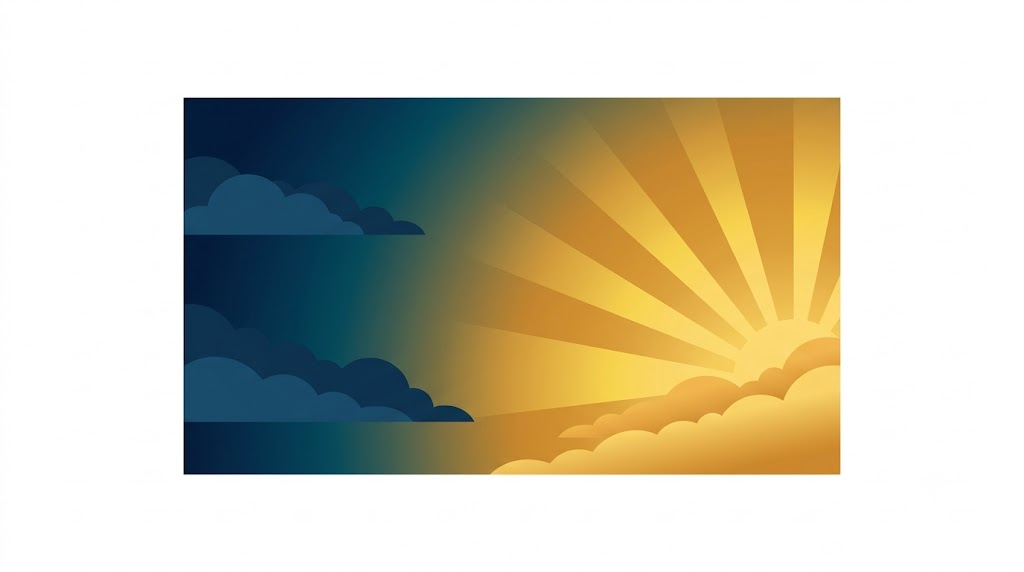
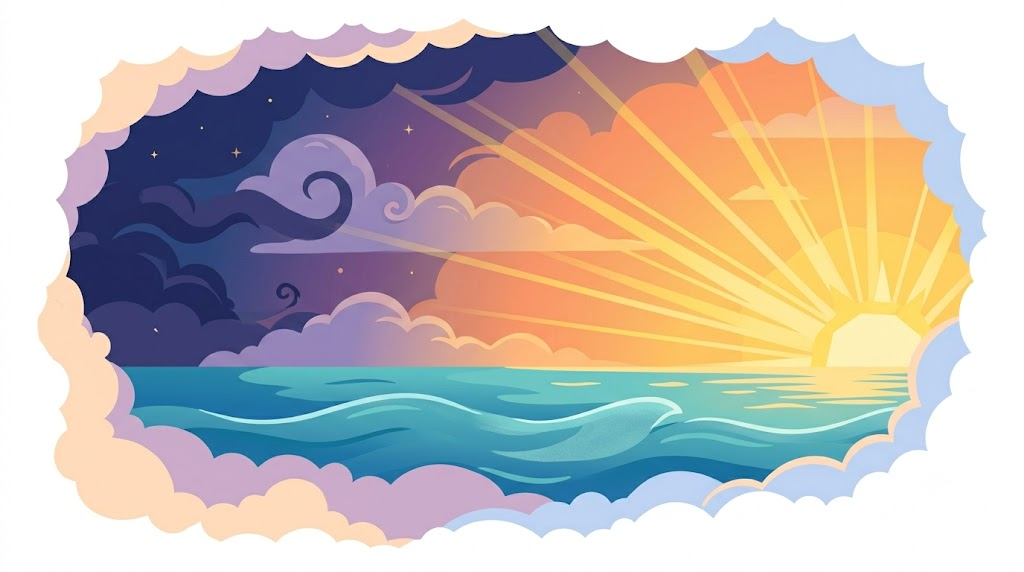
change to use query string param 'grade'

diff --git a/index.html b/index.html
@@ -297,13 +297,9 @@
 // URL ROUTING — parse grade from path e.g. /1, /2 ... /6
 // ─────────────────────────────────────────────
 function getGradeFromPath() {
-  var path = window.location.pathname;
-  // Match /1 through /6 anywhere in the path
-  var match = path.match(/\/(\d+)\/?$/);
-  if (match) {
-    var grade = parseInt(match[1]);
-    if (grade >= 1 && grade <= 6) return grade;
-  }
+  var params = new URLSearchParams(window.location.search);
+  var grade = parseInt(params.get('grade'));
+  if (!isNaN(grade) && grade >= 1 && grade <= 6) return grade;
   return 1; // default to grade 1
 }
 

diff --git a/1/data.js b/1/data.js
@@ -24,7 +24,7 @@ const VOCAB_ZH = {
 const days = [
   {
     titleSlide: {
-      image: 'Slideshows/Day1/day1_02_title.jpeg',
+      image: 'Slideshows/Day1/day1_00_title.jpeg',
       title: 'God Created Light and the Sky',
       verseEn: '"In the beginning God created the heavens and the earth." (Genesis 1:1)',
       verseZh: '起初，神創造天地。（創世記 1:1）',
@@ -80,7 +80,7 @@ const days = [
   },
   {
     titleSlide: {
-      image: 'Slideshows/Day2/day2_02_title.jpeg',
+      image: 'Slideshows/Day2/day2_00_title.jpeg',
       title: 'God Created Land and Plants',
       verseEn: '"God saw that it was good." (Genesis 1:10)',
       verseZh: '神看著是好的。（創世記 1:10）',